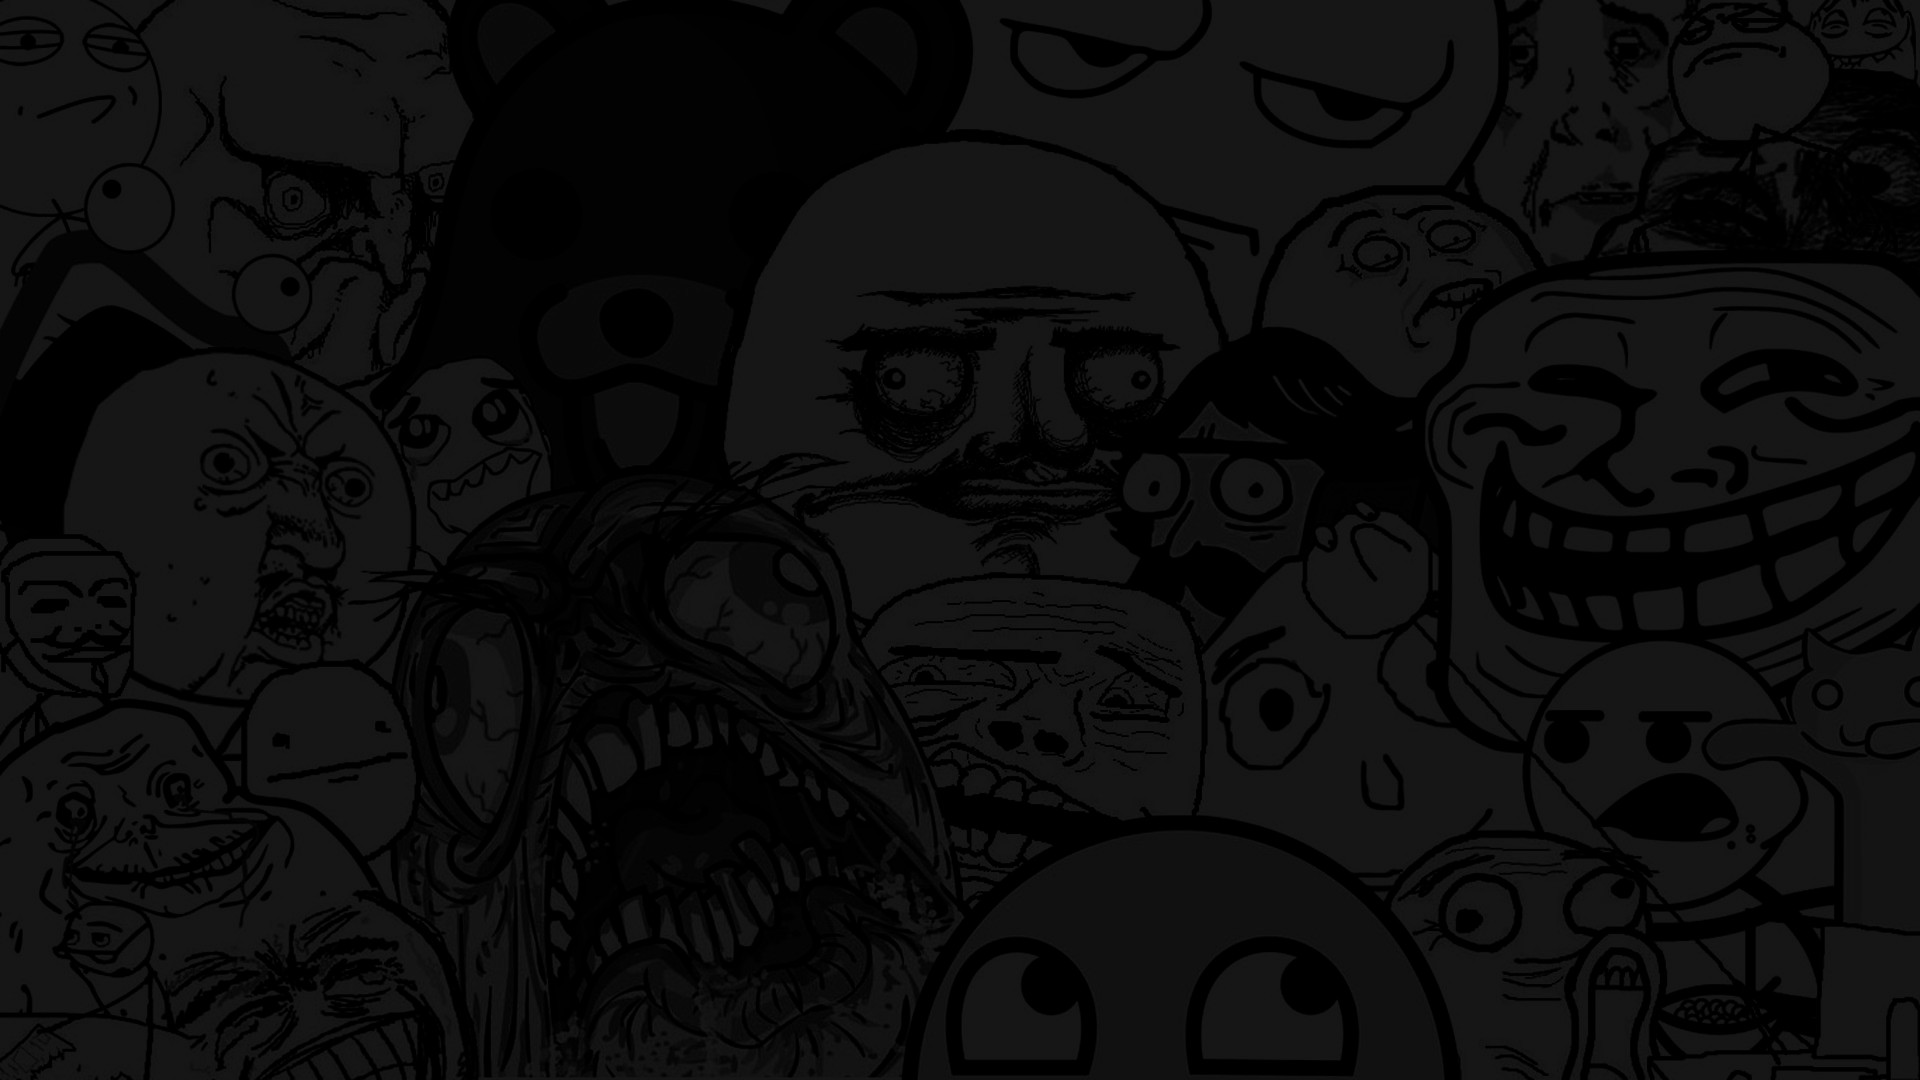
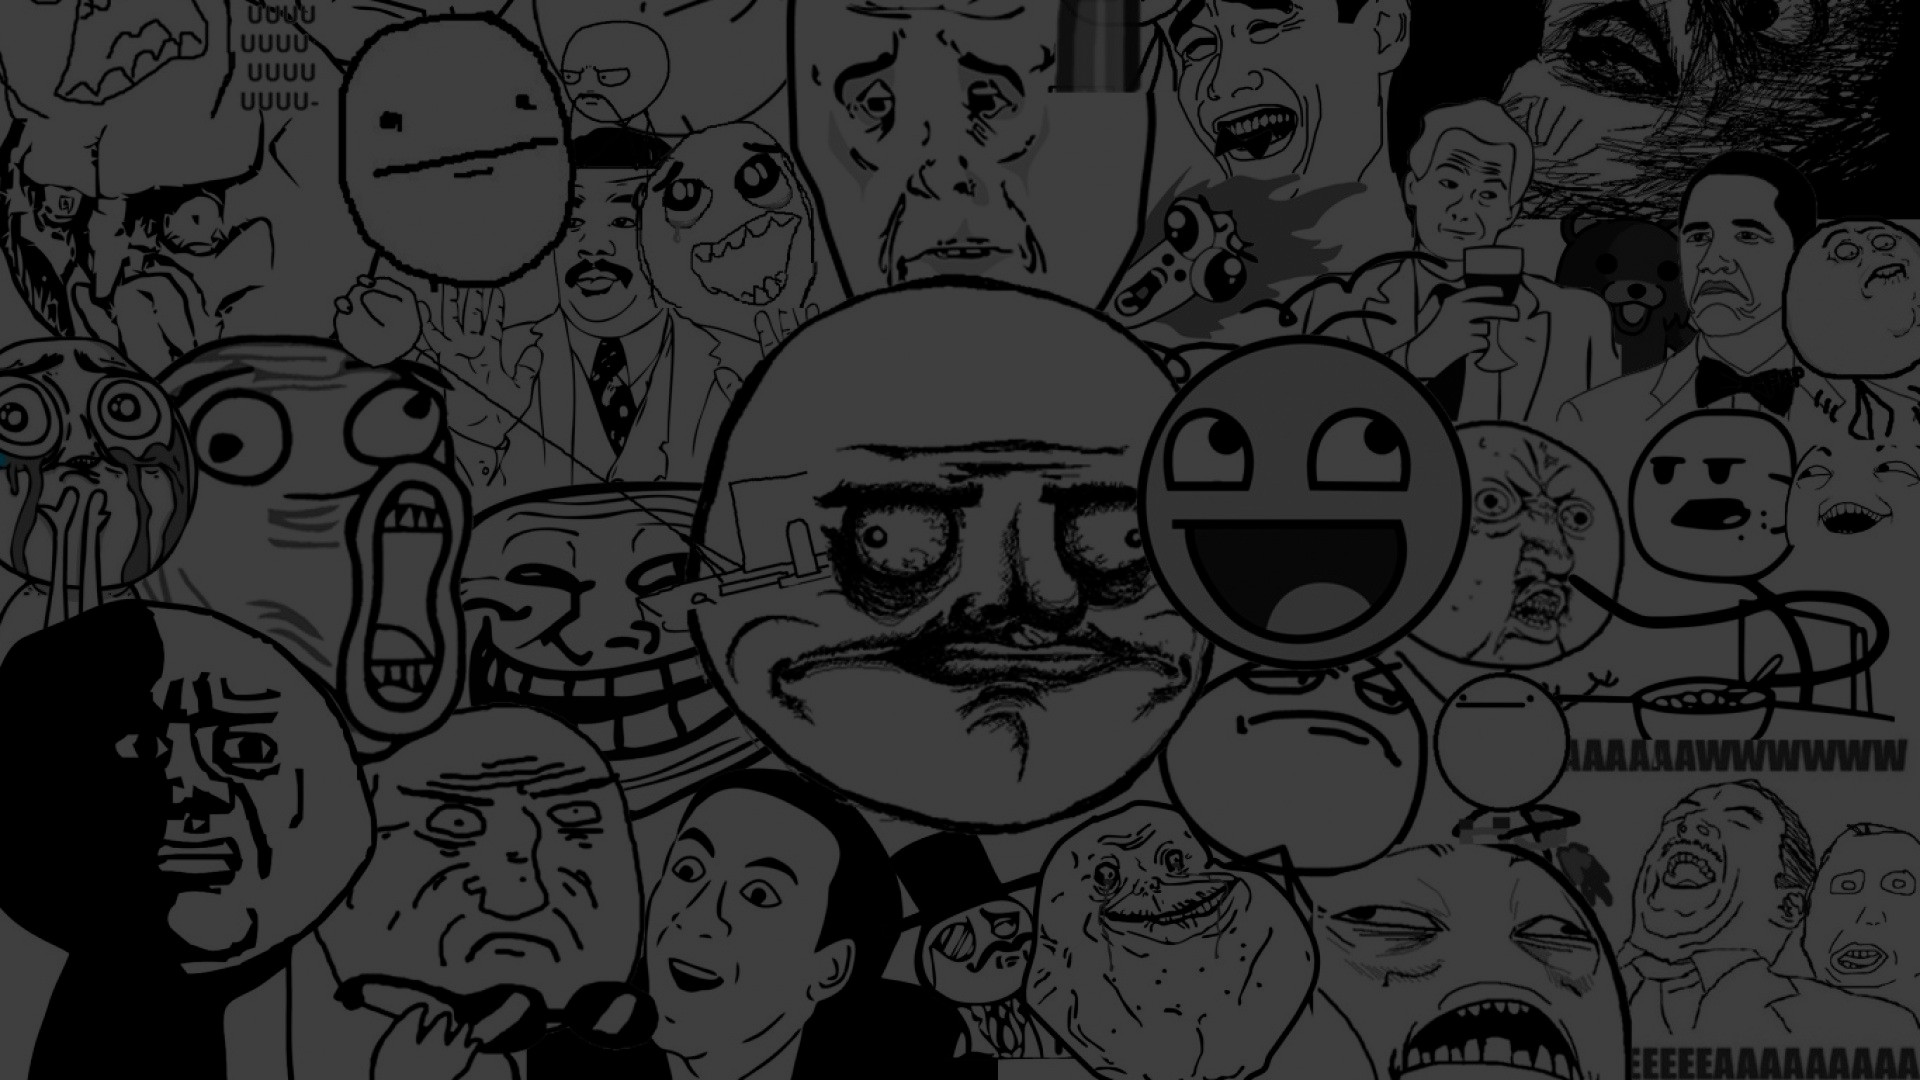
Ajustando Meme Generator - 28/09/2020

diff --git a/TRYBE-PROJETOS/Projeto5.5-Meme-Generator/style.css b/TRYBE-PROJETOS/Projeto5.5-Meme-Generator/style.css
@@ -13,7 +13,6 @@
   padding: 0;
   box-sizing: border-box;
   font-family: Impact, Haettenschweiler, 'Arial Narrow Bold', sans-serif;
-  font-weight: 1;
   color: white;
 }
 
@@ -33,7 +32,7 @@ body {
   justify-content: space-between;
   background-image: url(./imgs/fundo.jpg);
   background-size: 100% 100%;
-  background-repeat: no-repeat;
+  font-family: meme, Arial, Helvetica, sans-serif;
 }
 
 .container-title {
@@ -67,8 +66,8 @@ body {
 
 .title {
   color: #a0ff98;
-  font-size: 40px;
-  font-family: titulo, sans-serif;
+  font-size: 50px;
+  font-family: titulo, Arial, Helvetica, sans-serif;
   margin: 0 20px;
   padding: 0;
   /* width: 100%; */
@@ -77,10 +76,10 @@ body {
 
 .meme-span {
   color: #e0ca3c;
-  font-size: 40px;
+  font-size: 50px;
   font-weight: 700;
   margin: 0 20px;
-  font-family: titulo, sans-serif;
+  font-family: titulo, Arial, Helvetica, sans-serif;
   /* width: 100%; */
   /* background-color: blue; */
 }
@@ -99,12 +98,12 @@ body {
   color: black;
   font-weight: 700;
   font-size: 20px;
-  font-family: titulo, sans-serif;
+  font-family: titulo, Arial, Helvetica, sans-serif;
   padding: 5px 0;
 }
 
 .p-meme-span1 {
-  font-family: meme, sans-serif;
+  font-family: meme, Arial, Helvetica, sans-serif;
   font-size: 60px;
   color: #a0ff98;
   font-weight: 500;
@@ -112,7 +111,7 @@ body {
 }
 
 .p-meme-span2 {
-  font-family: meme, sans-serif;
+  font-family: meme, Arial, Helvetica, sans-serif;
   font-size: 60px;
   color: #e0ca3c;
   font-weight: 500;
@@ -304,7 +303,7 @@ body {
   border-radius: 50%;
   border: 6px double white;
   cursor: pointer;
-  opacity: 0.5;
+  opacity: 0.7;
 }
 
 .miniatureImg:hover {
@@ -333,13 +332,12 @@ body {
   font-size: 25px;
   font-weight: 700;
   padding: 10px 0 0;
-  font-weight: 2;
 }
 
 .footer-container p {
   /* background-color: #7d0000; */
   color: white;
-  font-weight: 2;
+  font-weight: 100;
   font-size: 15px;
   width: 100%;
   padding: 0 0 20px;

diff --git a/TRYBE-PROJETOS/Projeto5.5-Meme-Generator/script.js b/TRYBE-PROJETOS/Projeto5.5-Meme-Generator/script.js
@@ -77,9 +77,9 @@ const preImgs = document.querySelectorAll('.miniatureImg');
 
 for (let i = 0; i < preImgs.length; i += 1) {
   preImgs[i].addEventListener('click', function () {
-    document.body.style.backgroundSize = '125%';
     document.body.style.backgroundImage = "url(./imgs/meme-fundo.jpg)";
     document.body.style.backgroundRepeat = 'round';
+    document.body.style.backgroundSize = '30%';
     img.src = preImgs[i].src;
     showContainer = true;
     displayContainer();

diff --git a/TRYBE-PROJETOS/Projeto5.5-Meme-Generator/mobile.css b/TRYBE-PROJETOS/Projeto5.5-Meme-Generator/mobile.css
@@ -23,7 +23,7 @@
   }
 }
 
-@media screen and ( max-width: 500px ) {
+@media screen and ( max-width: 550px ) {
 
   body {
     width: 100%;
